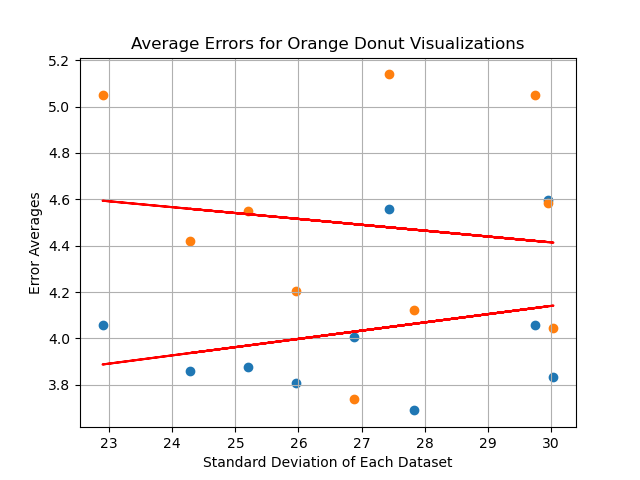
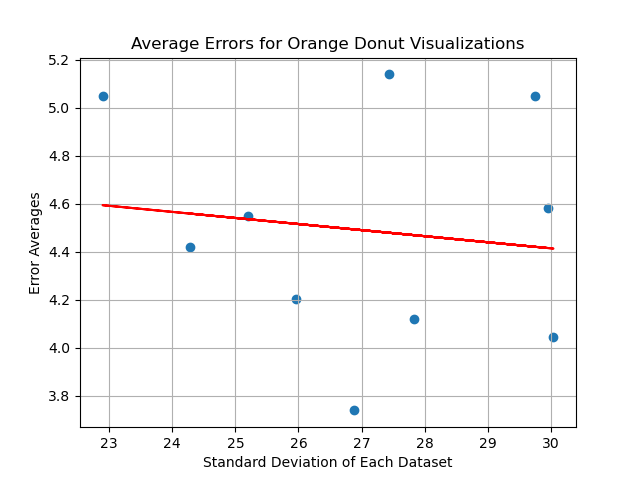
added donuts and fixed graphs

diff --git a/analysis/analyze.py b/analysis/analyze.py
@@ -58,6 +58,7 @@ barErrorAvgs = barErrors.mean().to_list() #average errors for each viz across al
 #pc.viz(dataStd, barErrorAvgs[10:], "Average Errors for Blue Bar Visualizations", barAvgErrorsGraphBlue)
 barOrangeErrorsAvg = barErrorAvgs[0:10]
 barBlueErrorsAvg = barErrorAvgs[10:]
+
 barBarChartTitle = 'Comparison of Average Errors for Blue and Orange Visualizations for each Data Array for Bar Charts'
 #pc.createBarChart(barBarChartTitle, barOrangeErrorsAvg, barBlueErrorsAvg, barBarCompGraph)
 
@@ -68,9 +69,10 @@ barBarChartTitle = 'Comparison of Average Errors for Blue and Orange Visualizati
 
 donutErrors = pc.errors(donutInput, colNames, dif, donutErrorsOutput)
 donutErrorAvgs = donutErrors.mean().to_list() #average errors for each viz across all participants
-#pc.viz(dataStd, donutErrorAvgs[0:10], "Average Errors for Orange Donut Visualizations", donutAvgErrorsGraphOrange)
+pc.viz(dataStd, donutErrorAvgs[0:10], "Average Errors for Orange Donut Visualizations", donutAvgErrorsGraphOrange)
 #pc.viz(dataStd, barErrorAvgs[10:], "Average Errors for Blue Donut Visualizations", donutAvgErrorsGraphBlue)
 donutOrangeErrorsAvg = donutErrorAvgs[0:10]
 donutBlueErrorsAvg = donutErrorAvgs[10:]
+print(sum(donutBlueErrorsAvg)/len(donutBlueErrorsAvg))
 donutBarChartTitle = 'Comparison of Average Errors for Blue and Orange Visualizations for each Data Array for Donut Charts'
-pc.createBarChart(donutBarChartTitle, donutOrangeErrorsAvg, donutBlueErrorsAvg, donutBarCompGraph)
+#pc.createBarChart(donutBarChartTitle, donutOrangeErrorsAvg, donutBlueErrorsAvg, donutBarCompGraph)
